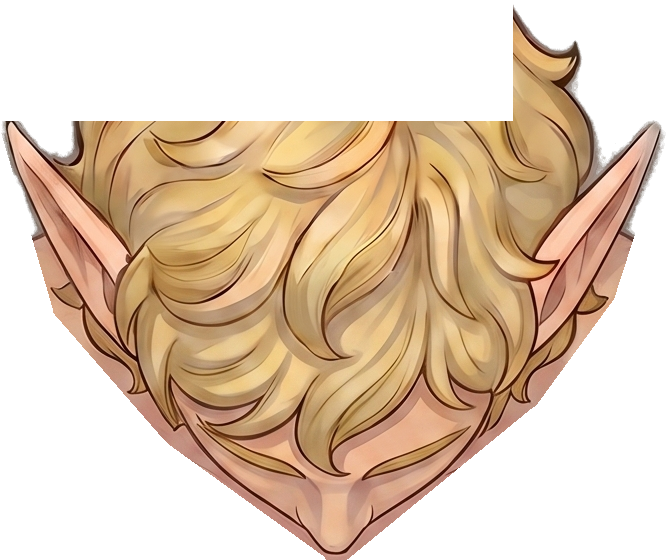
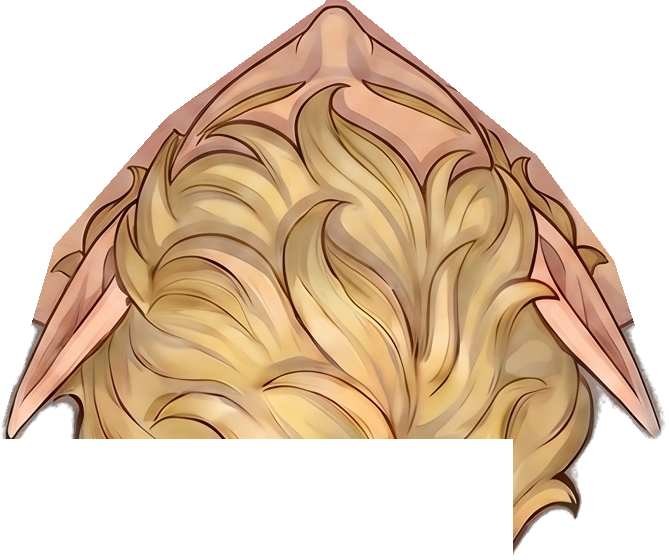
Vertical flip Male Elf head/torso + switch body sprites to uniform scaling
Two fixes after the test elf rendered with backwards head/torso and a
stretched torso in-game:

1. Vertical-flip head.png and torso.png at extraction time so their
   front/face-side end is at the TOP of the sprite, matching the engine
   convention used by the legs/arms (which were already oriented that way).

2. Replace the per-axis stretch in BodyPartSprites._scale_sprite_to_size
   with uniform scaling (scale.x == scale.y), with each call site picking
   an anchor axis:
     - heads & torsos anchor on width  (silhouette is shoulder-driven)
     - arms & legs anchor on height    (IK depends on segment length)
   Also updates _update_arm_segment to keep scale.x locked to scale.y
   during per-frame IK rescaling, so arms stay uniformly proportioned as
   they stretch/compress.

The torso no longer looks ~2x wider than the source art. Other races that
were authored against per-axis stretching will now render with their
source art's natural aspect ratio — visually nicer, and any race that
needed an unusual silhouette should reshape its source PNG, not lean on
the engine to stretch it.

diff --git a/tfa-simultaneous-gemini-1/scripts/extract_male_elf_body_parts.py b/tfa-simultaneous-gemini-1/scripts/extract_male_elf_body_parts.py
@@ -104,11 +104,12 @@ def fill_outline_interior(outline_mask: np.ndarray) -> np.ndarray:
 
 def extract_head(source_rgb: np.ndarray, head_outline_mask: np.ndarray) -> Image.Image:
     """Crop the head bbox, fill the outline's interior column-by-column, keep only
-    pixels inside.
+    pixels inside, then FLIP VERTICALLY.
 
     The green outline traces the full head perimeter (top of hair, sides, chin).
     For each column, "inside" is the span from the topmost outline pixel to the
-    bottommost. This is robust to outline gaps where binary_fill_holes would fail.
+    bottommost. The vertical flip puts the face/chin at the TOP of the sprite,
+    matching the engine convention that the proximal/face-side end is up.
     """
     x0, y0, x1, y1 = HEAD_BBOX
     rgb_crop = source_rgb[y0:y1, x0:x1].copy()
@@ -119,11 +120,15 @@ def extract_head(source_rgb: np.ndarray, head_outline_mask: np.ndarray) -> Image
     rgba[~interior, 3] = 0           # erase anything outside the head boundary
 
     rgba = autocrop(rgba, pad=4)
-    return Image.fromarray(rgba, mode="RGBA")
+    img = Image.fromarray(rgba, mode="RGBA")
+    return img.transpose(Image.FLIP_TOP_BOTTOM)
 
 
 def extract_torso(headless_rgb: np.ndarray) -> Image.Image:
-    """Crop the shoulders + upper body block from the HEADLESS source.
+    """Crop the shoulders + upper body block from the HEADLESS source, then
+    FLIP VERTICALLY so the chest/abs end is at the TOP of the sprite
+    (matching the engine convention so the torso faces the same direction
+    as the legs/feet end of the body).
 
     Bounds: x between the two shoulder cuts (670..1378), y from where the
     shoulders begin tapering inward (~870) down to just above the feet (1218).
@@ -135,7 +140,8 @@ def extract_torso(headless_rgb: np.ndarray) -> Image.Image:
     rgb_crop = headless_rgb[y_top:y_bottom, SHOULDER_X:SHOULDER_X_RIGHT].copy()
     rgba = remove_background(rgb_crop)
     rgba = autocrop(rgba, pad=4)
-    return Image.fromarray(rgba, mode="RGBA")
+    img = Image.fromarray(rgba, mode="RGBA")
+    return img.transpose(Image.FLIP_TOP_BOTTOM)
 
 
 def extract_arm_segment(source_rgb: np.ndarray, x0: int, x1: int) -> Image.Image: